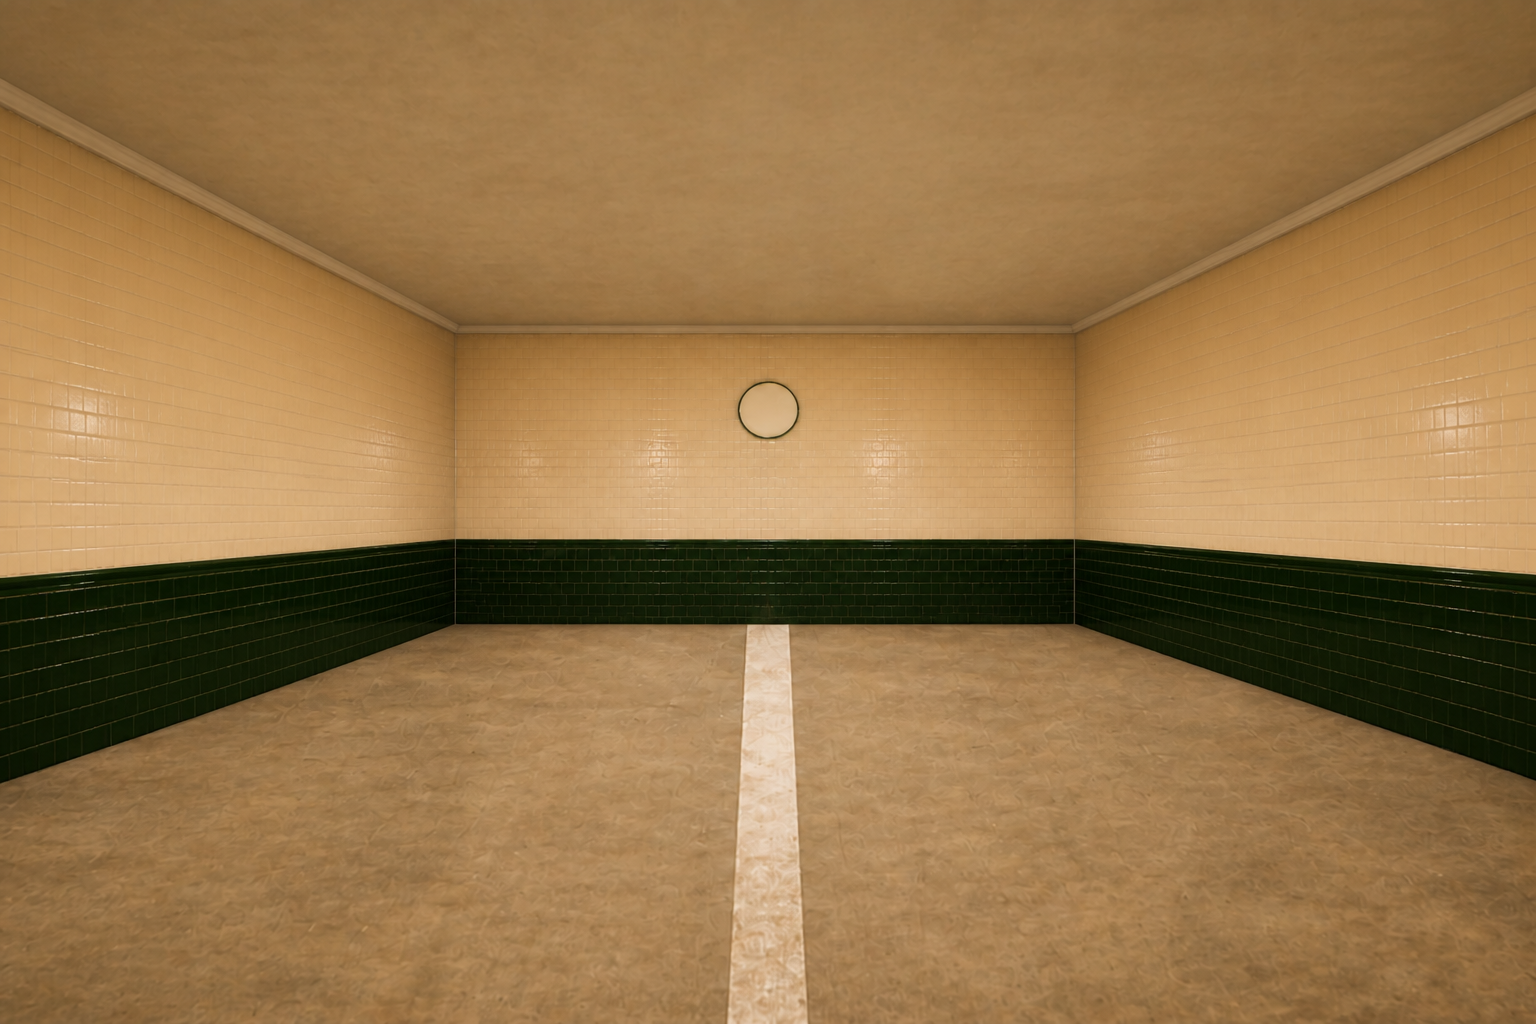
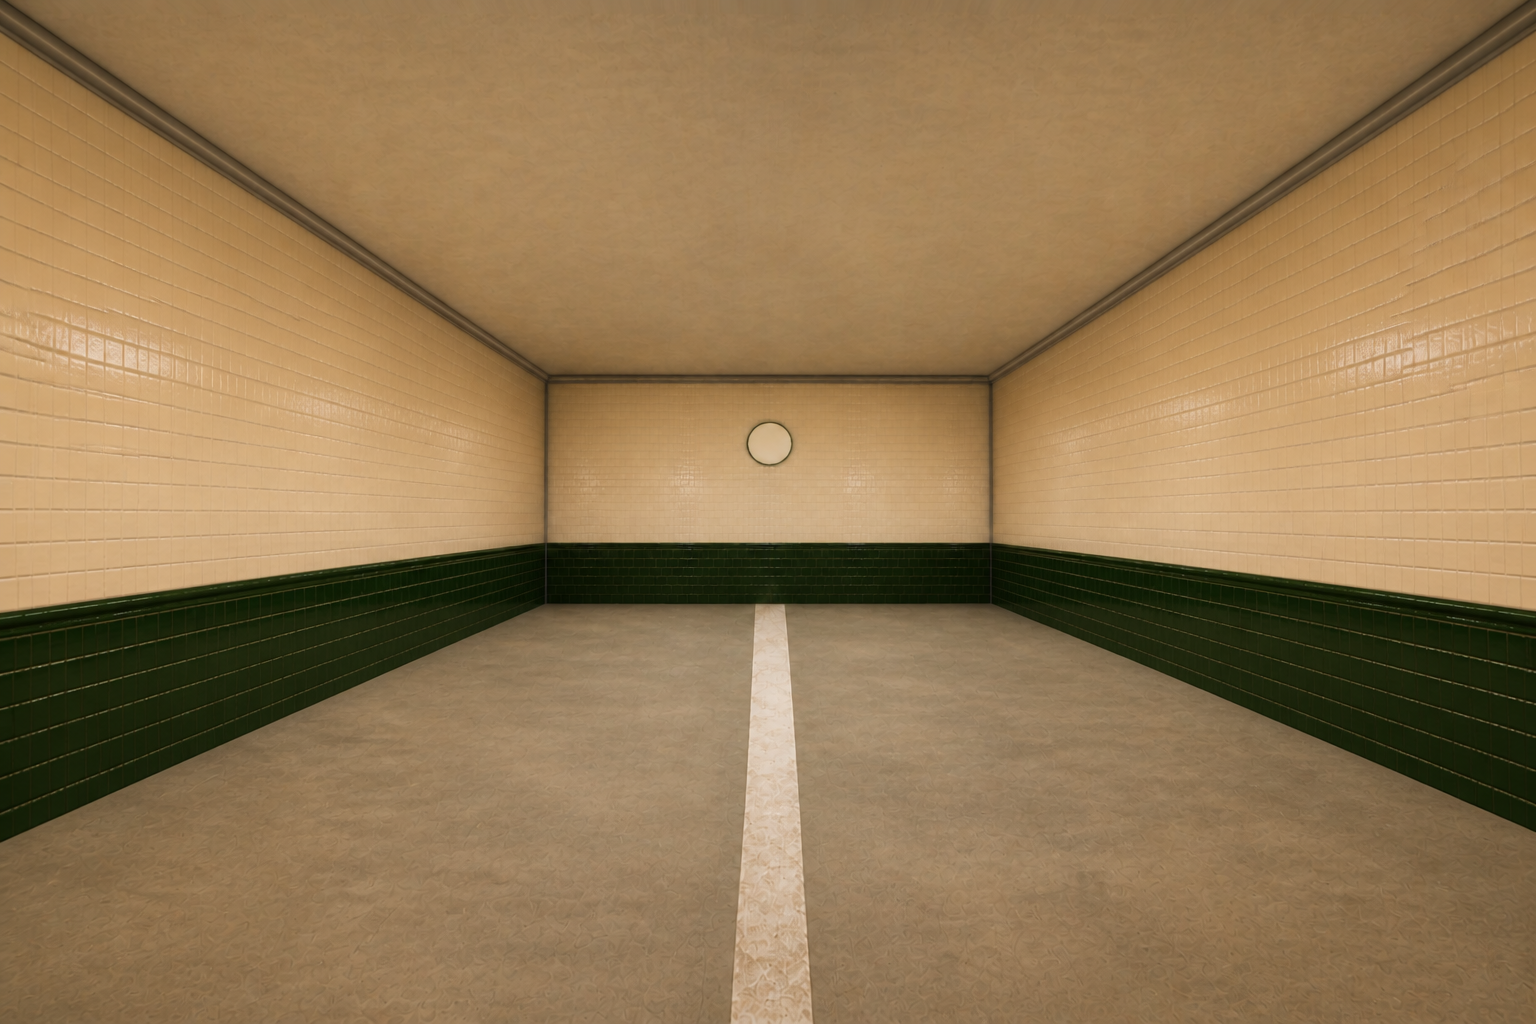
Arm B: reference-teaching shrinks depth variance 0.61-1.56 -> 0.98-1.13; adopted into the standard
Claude-Session: https://claude.ai/code/session_01GC1AH66NQ1uRMsBFmesias

diff --git a/design/batches/underground-2/experiments/depth-sliders/README.md b/design/batches/underground-2/experiments/depth-sliders/README.md
@@ -49,3 +49,13 @@ near-target rate ~1 in 5-6 rolls everywhere. Fabric, look, plane structure
 and seam alignment are all controllable; depth alone is not. The deterministic
 path (composed reprojection of promoted close art + enhance ask, far-E's own
 promotion route) remains the only construction that guarantees depth.
+
+## Arm B — reference-teaching (2026-09-01)
+
+Image 1 = the rectified frame of the best prior miss (the warp teaching
+before, touching nothing after - the Captain's original law). Four rolls:
+uniform scales 1.1346, 0.9842, 1.0474, 1.0315; reveals 0.023, 0.043, 0, 0.
+Verdict: a VARIANCE-SHRINKER - Arm A scattered 0.61..1.56; Arm B holds
+0.98..1.13 with 3/4 inside ~5%. Adopted: the standard's Image 1 becomes the
+rectified best-miss whenever one exists; selection + verifier-raw then land
+the winner.
